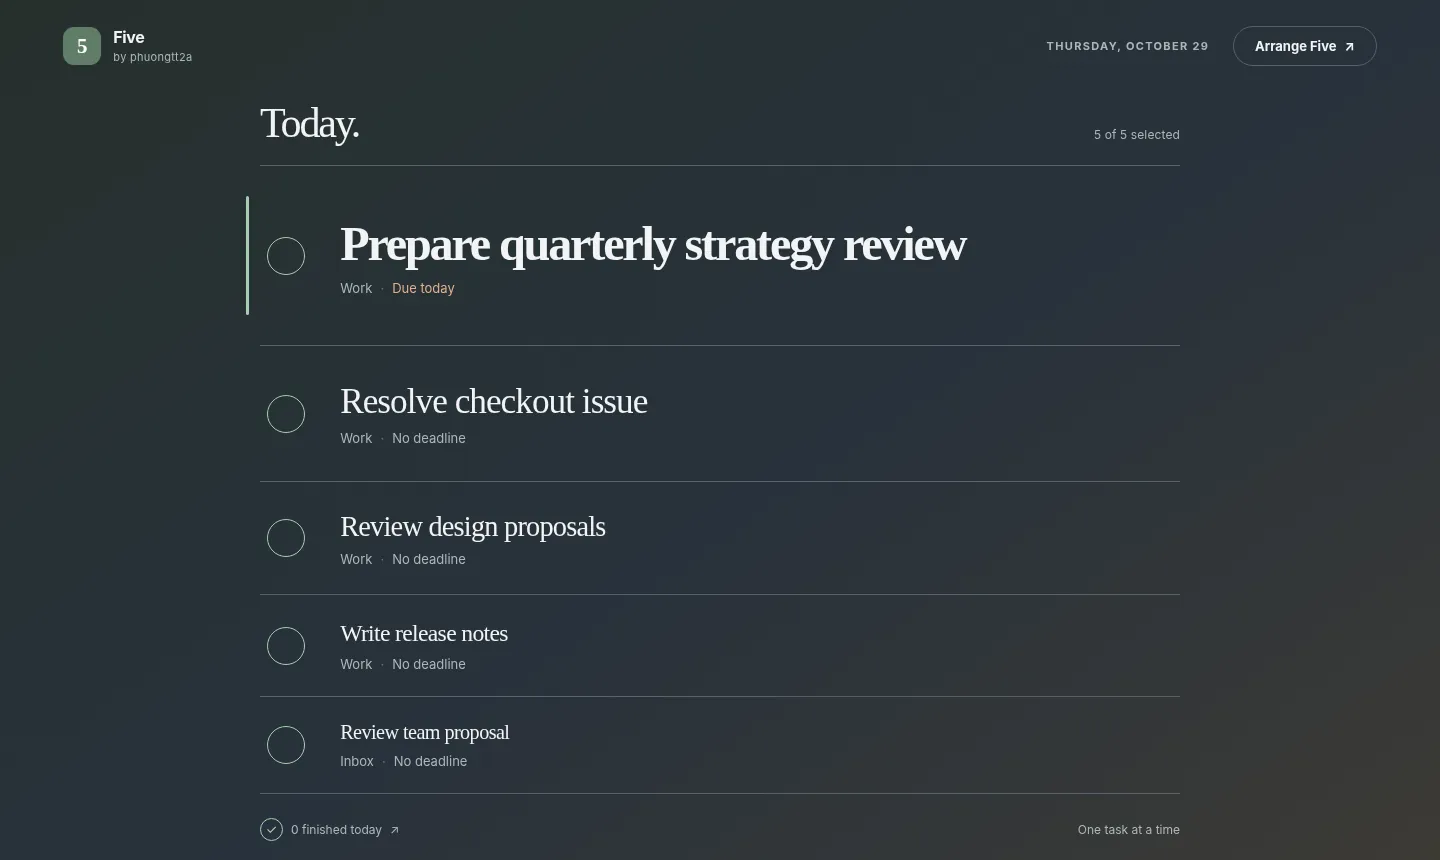
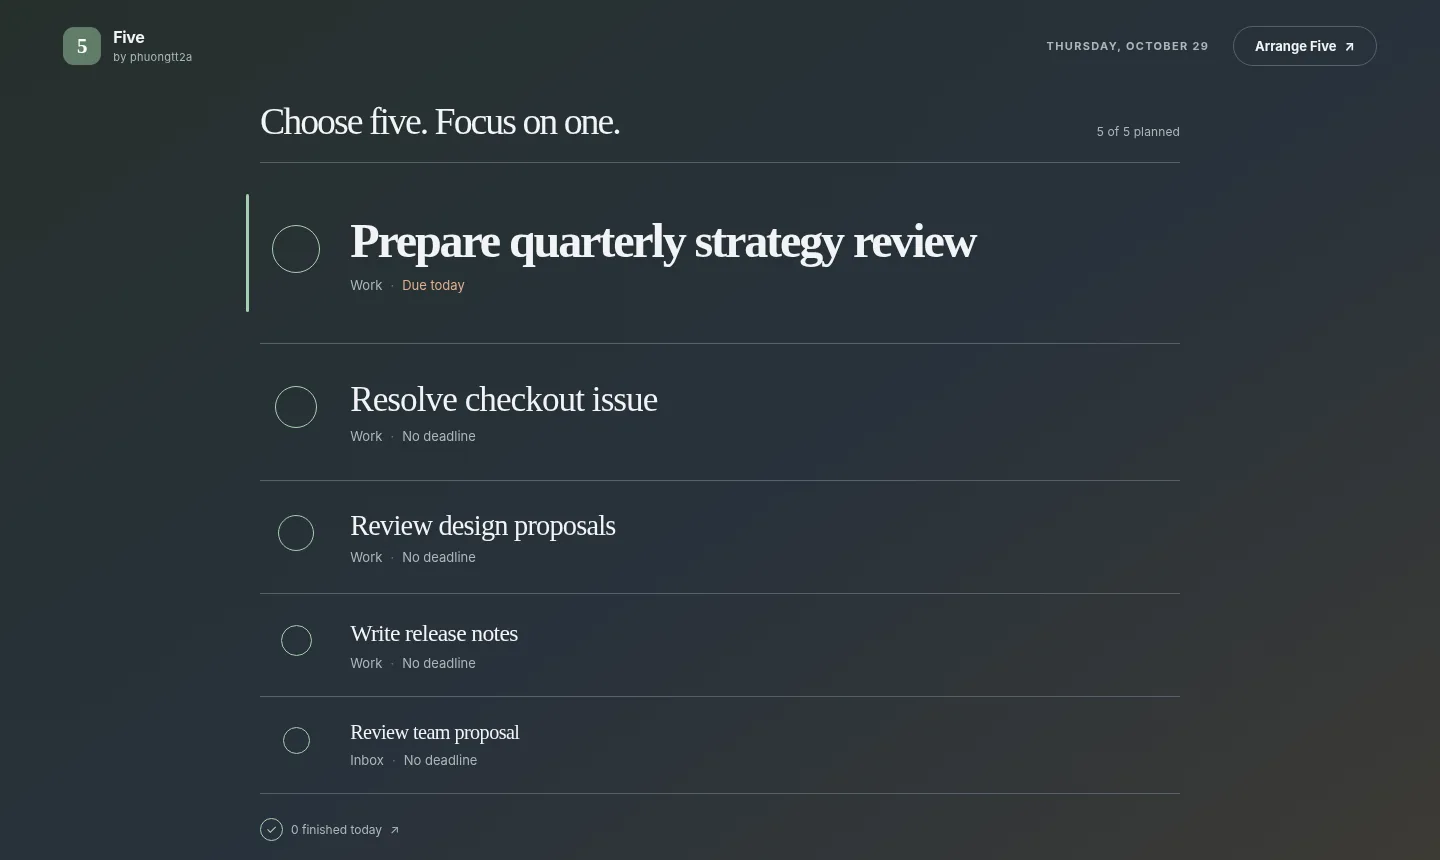
release: refine Five v1.0.0 layout, screenshots, and docs

diff --git a/plugin/index.html b/plugin/index.html
@@ -44,15 +44,24 @@ button:focus-visible,input:focus-visible,select:focus-visible,.queue-row:focus-v
 .focus-view{flex:1;min-height:0;width:min(920px,100%);margin:0 auto;display:flex;flex-direction:column}
 .hero{flex:0 0 auto;display:flex;justify-content:space-between;align-items:end;gap:20px;padding:clamp(14px,3.2vh,35px) 0 clamp(10px,2.2vh,24px)}
 .kicker{margin:0 0 8px;font-size:11px;text-transform:uppercase;letter-spacing:.21em;font-weight:750;color:var(--zen-accent)}
-.hero h1{margin:0;font:400 clamp(29px,4.9vh,50px)/1.06 var(--zen-serif);letter-spacing:-.053em}
+.hero h1{margin:0;font:400 clamp(26px,4.4vh,46px)/1.1 var(--zen-serif);letter-spacing:-.053em}
 .hero .sub{font-size:13px;color:var(--zen-muted);margin:9px 0 0}
 .hero-progress{white-space:nowrap;color:var(--zen-muted);font-size:12px;margin-bottom:4px;letter-spacing:.01em}
 .focus-five{flex:1;min-height:0;display:grid;grid-template-rows:1.6fr 1.2fr 1fr .9fr .85fr;gap:0}
-.focus-row{display:grid;grid-template-columns:48px minmax(0,1fr);align-items:center;gap:clamp(15px,2vw,25px);min-height:0;padding:clamp(3px,1vh,13px) clamp(2px,.5vw,8px);border-bottom:1px solid var(--zen-line);position:relative}
+.focus-row{display:grid;grid-template-columns:58px minmax(0,1fr);align-items:center;gap:clamp(15px,2vw,25px);min-height:0;padding:clamp(3px,1vh,13px) clamp(2px,.5vw,8px);border-bottom:1px solid var(--zen-line);position:relative}
 .focus-row:first-child{border-top:1px solid var(--zen-line)}
 .focus-row:first-child:not(.empty):before{content:"";position:absolute;left:-14px;top:17%;bottom:17%;width:3px;border-radius:4px;background:var(--zen-accent)}
-.complete-button{display:grid;place-items:center;width:38px;height:38px;border:1.6px solid var(--zen-accent);color:var(--zen-accent);border-radius:50%;background:transparent;font-size:20px;transition:background .15s,transform .15s}
+.complete-button{display:grid;place-items:center;justify-self:center;width:var(--complete-size,36px);height:var(--complete-size,36px);margin-top:-9px;border:1.6px solid var(--zen-accent);color:var(--zen-accent);border-radius:50%;background:transparent;font-size:20px;transition:background .15s,transform .15s}
 .complete-button:hover{background:var(--zen-accent-tint);transform:scale(1.07)}
+/* Scale the completion affordance with the visual priority of its task.
+   A stable check column keeps the titles aligned, and the slight upward shift
+   aligns each circle with the title rather than its due-date metadata. */
+.focus-row:nth-child(1){--complete-size:48px}
+.focus-row:nth-child(2){--complete-size:42px}
+.focus-row:nth-child(3){--complete-size:36px}
+.focus-row:nth-child(4){--complete-size:31px}
+.focus-row:nth-child(5){--complete-size:27px}
+
 .focus-copy{min-width:0;display:flex;flex-direction:column;justify-content:center}
 .focus-title{display:-webkit-box;-webkit-line-clamp:2;-webkit-box-orient:vertical;overflow:hidden;overflow-wrap:anywhere;line-height:1.17;letter-spacing:-.028em;font-family:var(--zen-serif);font-weight:500;text-align:left;background:none;border:0;padding:0;color:var(--zen-text);transition:color .12s}
 .focus-title:hover{color:var(--zen-accent)}
@@ -166,7 +175,7 @@ html.sp-host.sp-light { color-scheme:light;--zen-accent:#53715c;--zen-accent-tex
 @media(max-width:540px){
  .app{padding:12px 16px 7px}.brand-symbol{width:31px;height:31px;font-size:18px}.brand-title{font-size:14px}.brand-by{font-size:10px}
  .date{display:none}.quiet-button{padding:10px 13px;font-size:12px}.hero{padding:17px 0 10px}.hero h1{font-size:31px}.hero .sub{font-size:12px}.hero-progress{display:none}
- .focus-row{grid-template-columns:31px minmax(0,1fr);gap:15px}.complete-button{width:30px;height:30px}
+ .focus-row{grid-template-columns:42px minmax(0,1fr);gap:13px}.focus-row:nth-child(1){--complete-size:38px}.focus-row:nth-child(2){--complete-size:34px}.focus-row:nth-child(3){--complete-size:30px}.focus-row:nth-child(4){--complete-size:27px}.focus-row:nth-child(5){--complete-size:24px}.complete-button{margin-top:-5px}
  .focus-row:first-child:not(.empty):before{left:-11px;width:2px}
  .focus-row:nth-child(1) .focus-title{font-size:clamp(26px,4.6vh,39px)}
  .focus-row:nth-child(2) .focus-title{font-size:clamp(23px,3.9vh,32px)}
@@ -187,15 +196,15 @@ html.sp-host.sp-light { color-scheme:light;--zen-accent:#53715c;--zen-accent-tex
   <main class="app">
   <header class="topbar">
     <div class="brand"><span class="brand-symbol" aria-hidden="true">5</span><span><span class="brand-title">Five</span><span class="brand-by" style="display:block">by phuongtt2a</span></span></div>
-    <div class="top-actions"><span class="date" id="date-label"></span><button type="button" id="manage-button" class="quiet-button">Arrange Five <span aria-hidden="true">↗</span></button><button type="button" id="back-button" class="quiet-button hidden">← Back to focus</button></div>
+    <div class="top-actions"><span class="date" id="date-label"></span><button type="button" id="manage-button" class="quiet-button">Arrange Five <span aria-hidden="true">↗</span></button><button type="button" id="back-button" class="quiet-button hidden">← View Five</button></div>
   </header>
   <section id="focus-screen" class="focus-view" aria-labelledby="focus-heading">
-    <div class="hero"><h1 id="focus-heading">Today.</h1><div id="focus-progress" class="hero-progress">0 of 5 selected</div></div>
+    <div class="hero"><h1 id="focus-heading">Choose five. Focus on one.</h1><div id="focus-progress" class="hero-progress">0 of 5 planned</div></div>
     <div id="focus-list" class="focus-five" aria-label="Your five tasks, highest priority first"></div>
-    <footer class="footline"><button type="button" id="history-button" class="completion-stat" aria-label="View tasks finished today" aria-haspopup="dialog"><span class="round" aria-hidden="true">✓</span><span id="completed-count">0 finished today</span><span aria-hidden="true">↗</span></button><span class="foot-note">One task at a time</span></footer>
+    <footer class="footline"><button type="button" id="history-button" class="completion-stat" aria-label="View tasks finished today" aria-haspopup="dialog"><span class="round" aria-hidden="true">✓</span><span id="completed-count">0 finished today</span><span aria-hidden="true">↗</span></button></footer>
   </section>
   <section id="manage-screen" class="manage-screen hidden" aria-labelledby="manage-heading">
-    <div class="manage-header"><div><p class="kicker">Make a little room</p><h1 id="manage-heading">Arrange your Five.</h1><p>Choose or create up to five tasks, then drag them into your preferred order. The first is your next focus.</p></div><span id="manage-count" class="small-hint">0 / 5 selected</span></div>
+    <div class="manage-header"><div><p class="kicker">Make a little room</p><h1 id="manage-heading">Arrange your Five.</h1><p>Choose or create up to five tasks, then drag them into your preferred order. The first is your next focus.</p></div><span id="manage-count" class="small-hint">0 / 5 planned</span></div>
     <div class="manage-mobile-tabs"><button type="button" id="tab-browse" class="active">All tasks</button><button type="button" id="tab-selected">Your Five</button></div>
     <div class="manage-grid" id="manage-grid" data-tab="browse">
       <section id="browse-panel" class="manage-panel" aria-label="Choose existing tasks or create a task">
@@ -214,11 +223,11 @@ html.sp-host.sp-light { color-scheme:light;--zen-accent:#53715c;--zen-accent-tex
       <section id="selected-panel" class="manage-panel" aria-label="Your five focus tasks">
         <div class="panel-header"><div class="panel-heading"><h2>Your Five</h2><span id="queue-count" class="small-hint">0 / 5</span></div><p class="small-hint">Drag to reorder: the first task is your next focus. Use arrows if you prefer.</p></div>
         <div id="selected-queue" class="queue" aria-label="Your five tasks in priority order"></div>
-        <div class="queue-footer"><button id="suggest-button" class="quiet-button small flat" type="button">✧ Suggest remaining</button><button id="finish-button" class="quiet-button primary" type="button">Return to focus →</button></div>
+        <div class="queue-footer"><button id="suggest-button" class="quiet-button small flat" type="button">✧ Suggest remaining</button><button id="finish-button" class="quiet-button primary" type="button">View Five →</button></div>
       </section>
     </div>
   </section>
-  <div id="history-overlay" class="history-overlay hidden" role="presentation"><section class="history-card" role="dialog" aria-modal="true" aria-labelledby="history-heading"><div class="history-heading"><h2 id="history-heading">Finished today</h2><button id="history-close" class="history-close" type="button">Close</button></div><p class="history-copy">Tasks you finished from Five today. Returning one to To Do removes it from this count.</p><div id="history-items" class="history-items"></div></section></div>
+  <div id="history-overlay" class="history-overlay hidden" role="presentation"><section class="history-card" role="dialog" aria-modal="true" aria-labelledby="history-heading"><div class="history-heading"><h2 id="history-heading">Finished today</h2><button id="history-close" class="history-close" type="button">Close</button></div><p class="history-copy">Tasks completed from your Five today.</p><div id="history-items" class="history-items"></div></section></div>
   <div id="notice" class="banner hidden" role="status" aria-live="polite"></div>
 </main>
   <script>
@@ -504,7 +513,7 @@ html.sp-host.sp-light { color-scheme:light;--zen-accent:#53715c;--zen-accent-tex
     const current=ids();
     $('date-label').textContent=new Date().toLocaleDateString(undefined,{weekday:'long',month:'long',day:'numeric'});
     $('completed-count').textContent=`${(state.saved.completed[state.today]||[]).length} finished today`;
-    $('focus-progress').textContent=`${countSelected()} of 5 selected`;
+    $('focus-progress').textContent=`${countSelected()} of 5 planned`;
     $('focus-list').innerHTML=Array.from({length:MAX},(_,index)=>{
       const t=task(current[index]);if(t&&!t.isDone)return focusRow(t,index);
       return `<div class="focus-row empty"><span class="empty-line">${index===0?'Your next focus':'Open space'}</span></div>`;
@@ -532,7 +541,7 @@ html.sp-host.sp-light { color-scheme:light;--zen-accent:#53715c;--zen-accent-tex
   }
   function renderQueue() {
     const chosen=ids();
-    $('manage-count').textContent=`${countSelected()} / 5 selected`;
+    $('manage-count').textContent=`${countSelected()} / 5 planned`;
     $('queue-count').textContent=`${countSelected()} / 5`;
     $('tab-selected').textContent=`Your Five (${countSelected()})`;
     $('suggest-button').disabled=countSelected()>=MAX||!state.tasks.some(t=>!t.isDone&&!chosen.includes(t.id));

diff --git a/CHANGELOG.md b/CHANGELOG.md
@@ -3,11 +3,11 @@
 ## 1.0.0 — First public release
 
 - Five focuses your attention on **five chosen priorities for today, one task at a time**.
-- No numeric labels: ordering and progressive title sizes communicate priority.
+- No numeric labels: ordering and progressive title sizes communicate priority; the completion circles scale to match each task.
 - The top task has the largest type; later tasks have clearly smaller titles.
 - Completing or removing a task automatically moves the remaining tasks upward.
 - Arrange Five supports adding, dragging, rearranging, and creating real Super Productivity tasks.
-- Transparent focus and planning canvases in both light and dark modes, with theme-aware controls and task forms.
+- Transparent focus and planning canvases in both light and dark modes, with theme-aware controls and task forms, plus updated screenshots.
 - Clicking **Finished today** shows completed focus tasks and lets you return a task to To Do.
 - Reopening a task removes it from the finished count and restores its position if space is available.
 - Saves each day's selection and plugin-defined priority through synced plugin storage.

diff --git a/docs/PUBLISHING.md b/docs/PUBLISHING.md
@@ -21,3 +21,15 @@ The earlier development release `v3.1.0` was published before the numbering was 
 5. Confirm the release workflow succeeded and download the ZIP from **Releases → Assets**.
 
 GitHub's auto-generated **Source code (zip)** archive is not the installable ZIP. Users should always download **`five-super-productivity.zip`** from the Release Assets.
+
+## Repository About section
+
+The GitHub **About** section is separate from the README. To make the project discoverable,
+open the repository homepage, click the gear icon next to **About**, and enter:
+
+- **Description:** `Five — A zen-inspired Super Productivity plugin to choose five priorities for today and focus on one task at a time.`
+- **Website:** `https://app.super-productivity.com/`
+- **Topics:** `super-productivity`, `productivity`, `focus`, `task-management`, `daily-planning`, `plugin`
+
+Select **Save changes**. The GitHub source-code publication tools do not modify
+repository About metadata; changing the README alone does not populate these fields.
